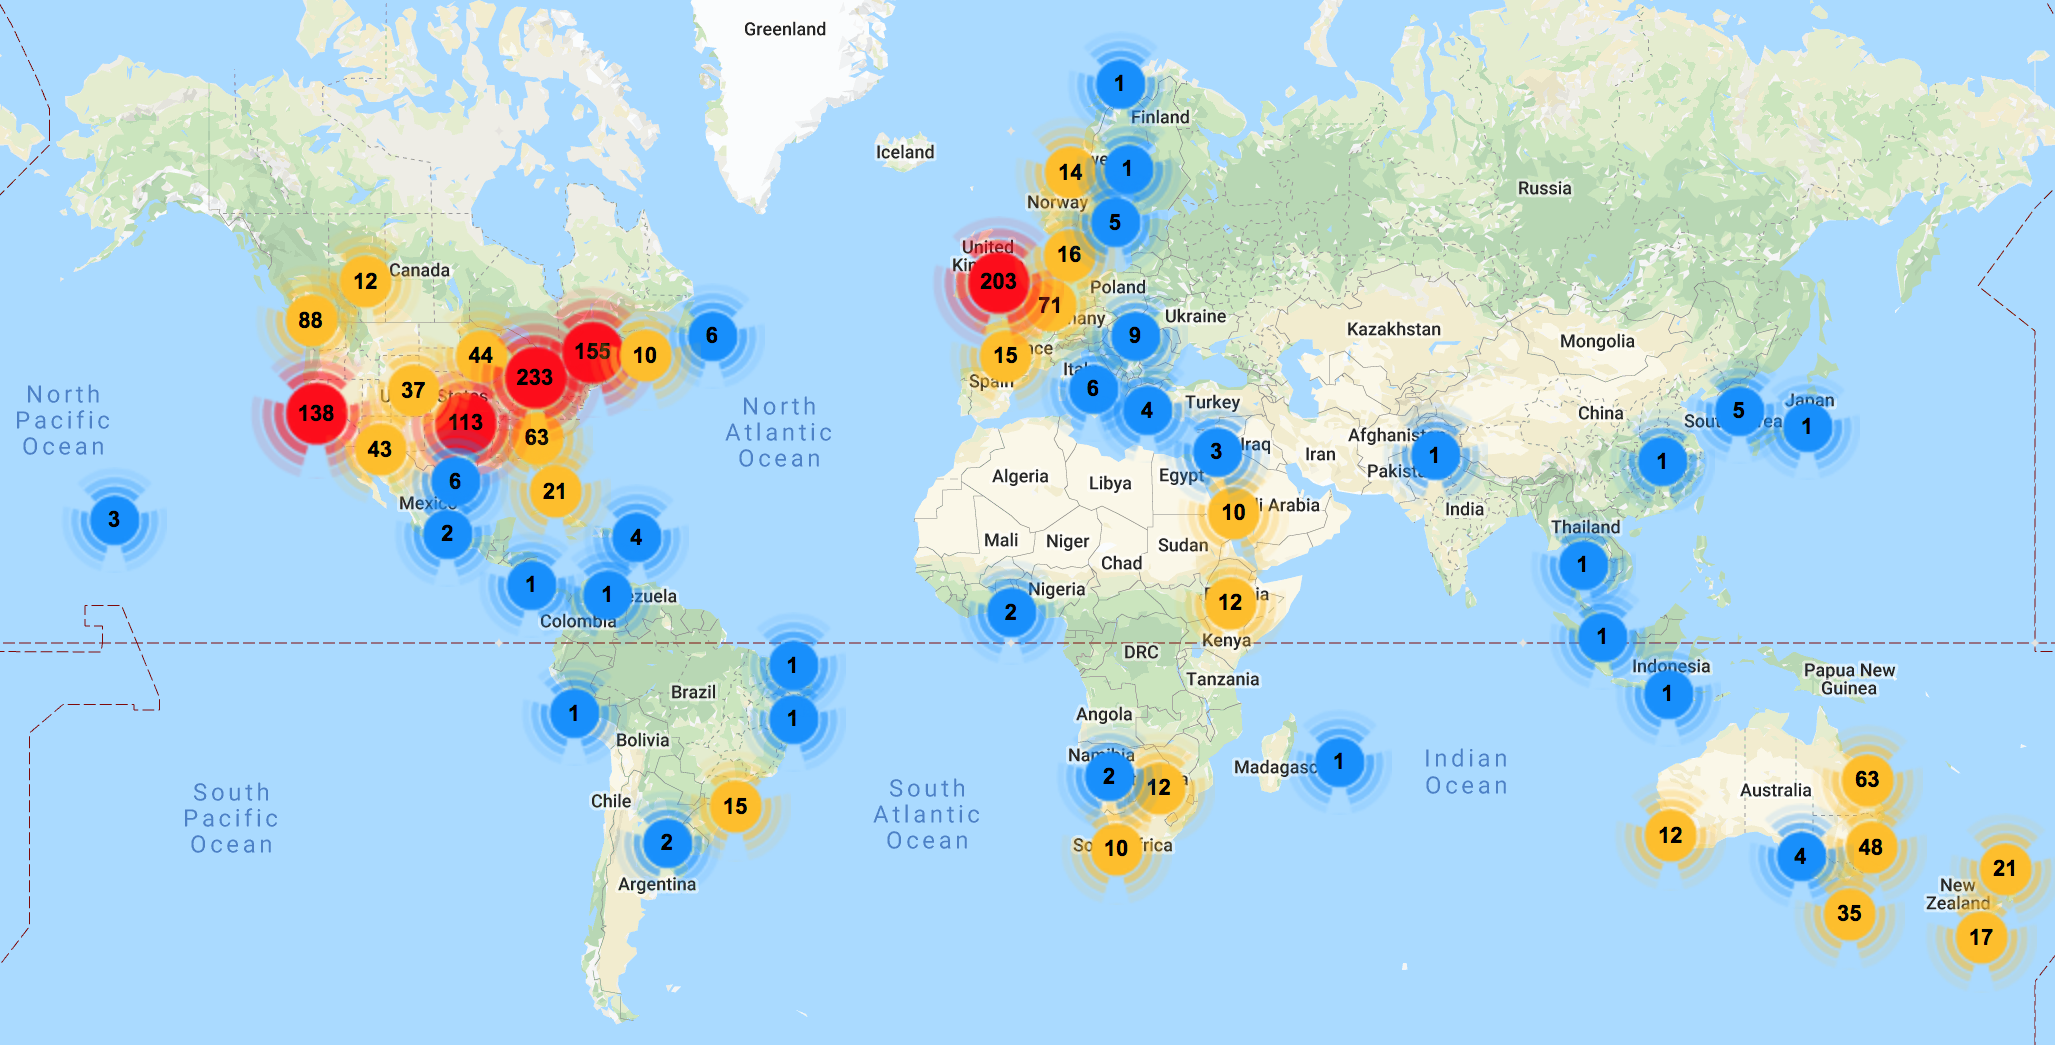
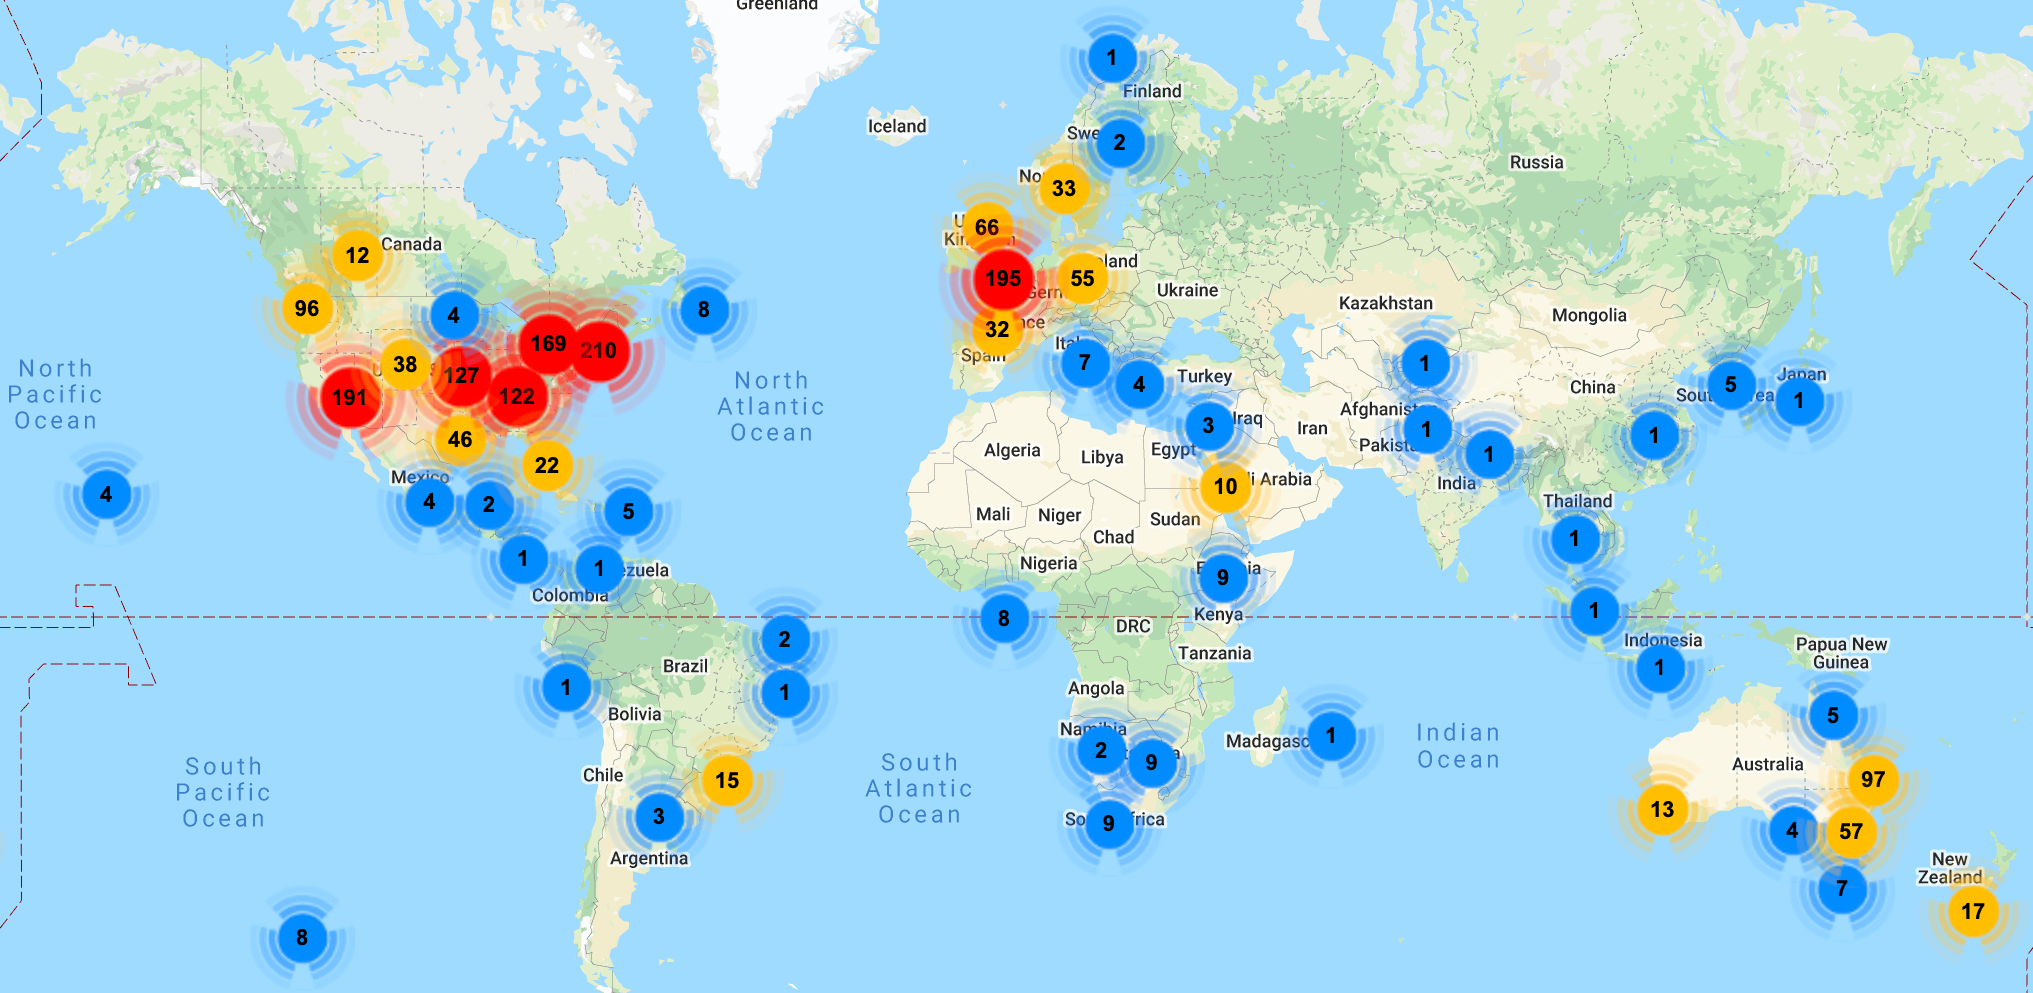
Update slides

diff --git a/index.html b/index.html
@@ -32,11 +32,11 @@ Fika Seminar&lt;br&gt;&lt;span style = 'font-size: 80%;'&gt;2020.11.17&lt;/span&
 ---
 ## この発表で伝いたいこと&lt;br&gt;What I want to tell you about today
 
-- ソフトウェア・カーペントリーとは何でしょうか？ What is Software Carpentry (SWC)?
+- ソフトウェア・カーペントリーとは何でしょうか？&lt;br&gt;What is Software Carpentry (SWC)?
 
-- SWCに参加すると何が得られるでしょうか？ What can you gain from participating in SWC?
+- SWCに参加すると何が得られるでしょうか？&lt;br&gt;What can you gain from participating in SWC?
 
-- どうやってSWCの教材を日本語にしているのか？ How are we translating SWC materials in Japanese?
+- どうやってSWCの教材を日本語にしているのか？&lt;br&gt;How are we translating SWC materials in Japanese?
 
 ---
 
@@ -82,7 +82,7 @@ Researchers teach each other as a **community**
 
 ---
 
-### 1622 workshops in 51 countries since 2012
+### 1796 workshops in 54 countries 2012
 
 ![](images/map.png)
 
@@ -108,7 +108,8 @@ Researchers teach each other as a **community**
 
 （最近はオンラインになって、数日に渡って2-3時間ずつ）&lt;br&gt;(Recently, online sessions are 2-3 hours per day over several days)
 
-.center[&lt;img src="images/schedule.png" alt="drawing"&gt;]
+&lt;!-- schedule from https://edbennett.github.io/2020-02-25-cardiff/--&gt;
+.center[&lt;img src="images/schedule-plain.png" alt="drawing"&gt;]
 
 ---
 
@@ -177,17 +178,17 @@ Data Carpentry, Library Carpentry, Software Carpentry
 
 - 年会費（米ドル）Annual fee (USD): $5,000&amp;ndash;$15,000
 
-[Examples](https://carpentries.org/members/): California Institute of Technology, CSIRO, NASA, Stanford University, Smithsonian Institution, South African Centre for Digital Language Resources, Woods Hole Oceanographic Institution...
+[Examples](https://carpentries.org/members/): California Institute of Technology, CSIRO, NASA, Stanford University, Smithsonian Institution, South African Centre for Digital Language Resources, Woods Hole Oceanographic Institution...（東大？）
 
 ---
 
 ## ワークショップの例（自分の経験）&lt;br&gt;Example Workshops (my experience)
 
-Harvard University, 2015: クラスターを使うのに必須&lt;br&gt;Required to use computing cluster
+[Harvard University, 2015](http://fasrc.github.io/2015-07-22_SWC-R/): クラスターを使うのに必須&lt;br&gt;Required to use computing cluster (Software Carpentry)
 
-Smithsonian Institution, 2019: 博物館の研究者にデータ解析スキルを教える&lt;br&gt;Teach museum researchers analysis skills (Data Carpentry)
+[Smithsonian Institution, 2019](https://smithsonianworkshops.github.io/2019-02-04-castle/): 博物館の研究者にデータ解析スキルを教える&lt;br&gt;Teach museum researchers analysis skills (Data Carpentry)
 
-Institute for Tribal Environmental Professionals, 2020: アメリカ先住民の方々にデータスキルを教える&lt;br&gt;Teach tribal leaders analysis skills (Data Carpentry)
+[Institute for Tribal Environmental Professionals, 2020](https://marwahaha.github.io/2020-11-04-ITEP-online/): アメリカ先住民の方々にデータスキルを教える&lt;br&gt;Teach tribal leaders analysis skills (Data Carpentry)
 
 ---
 class: middle
